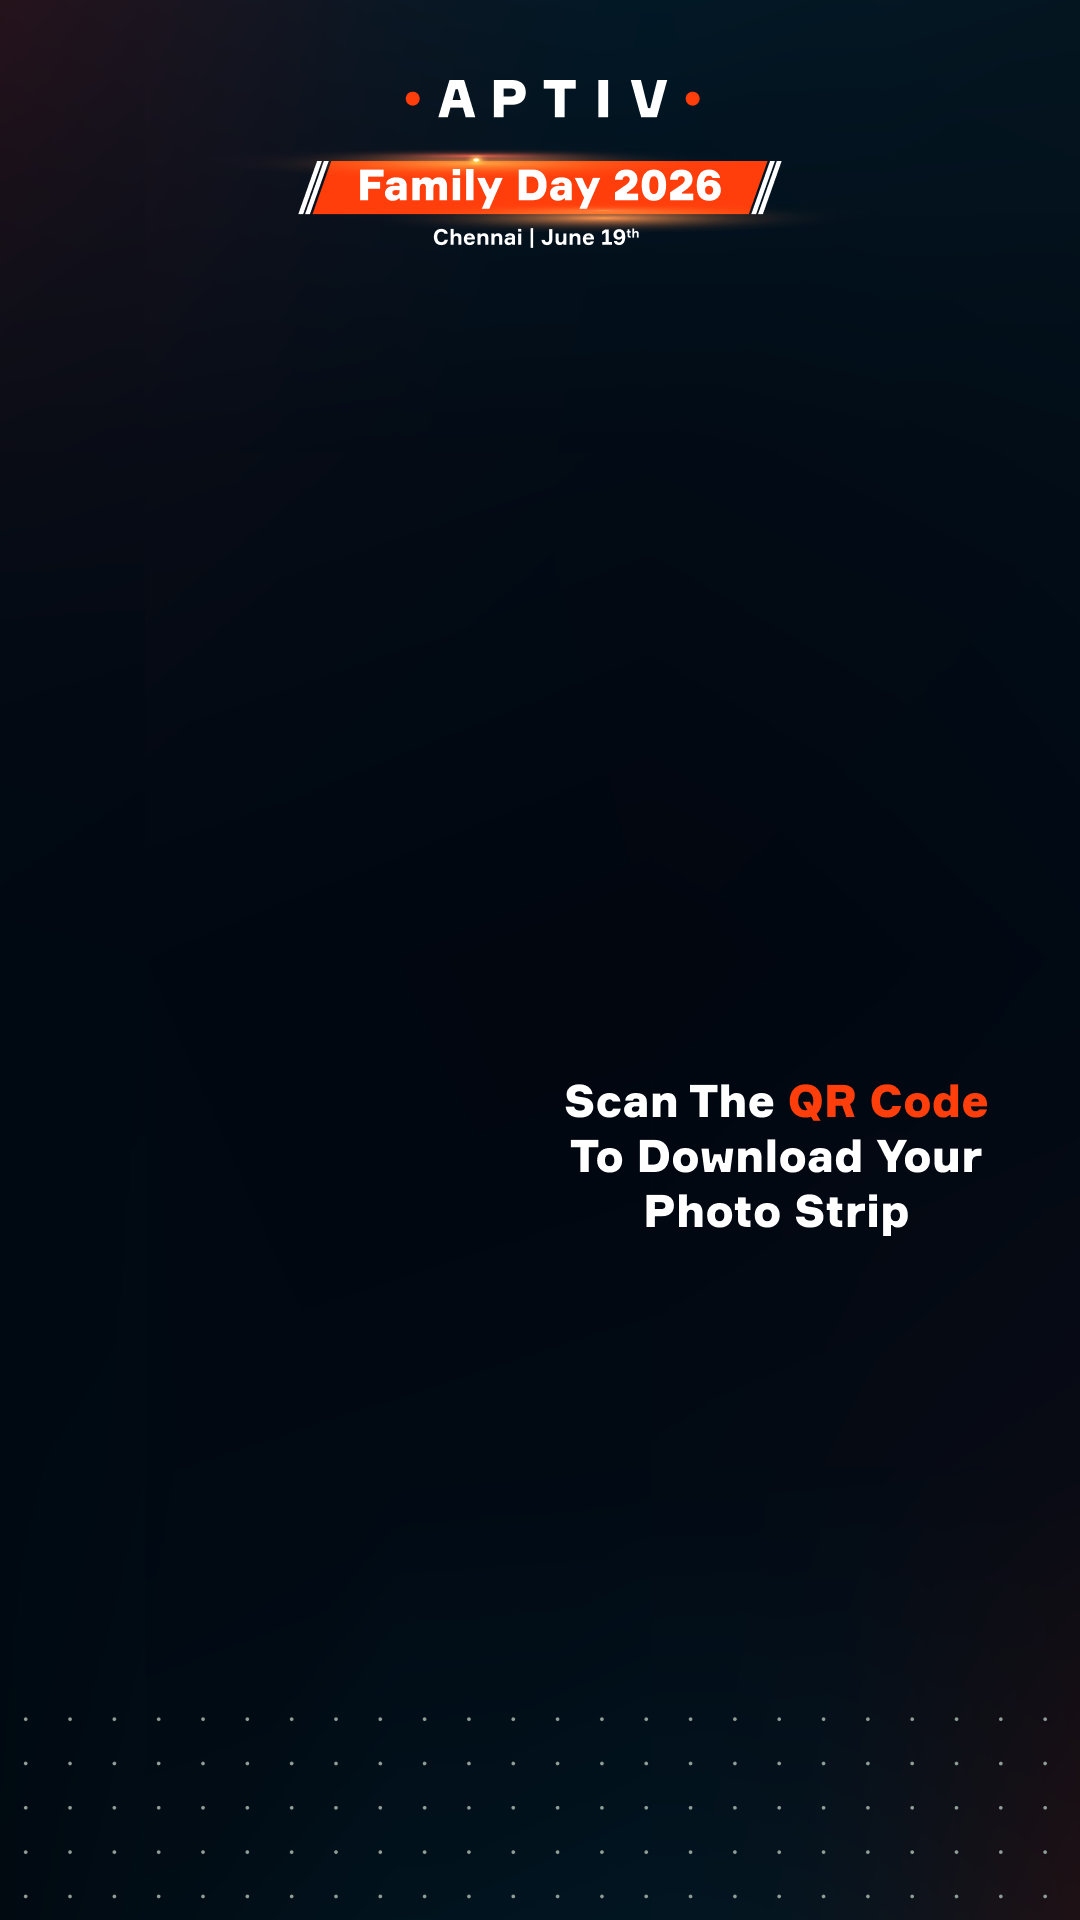
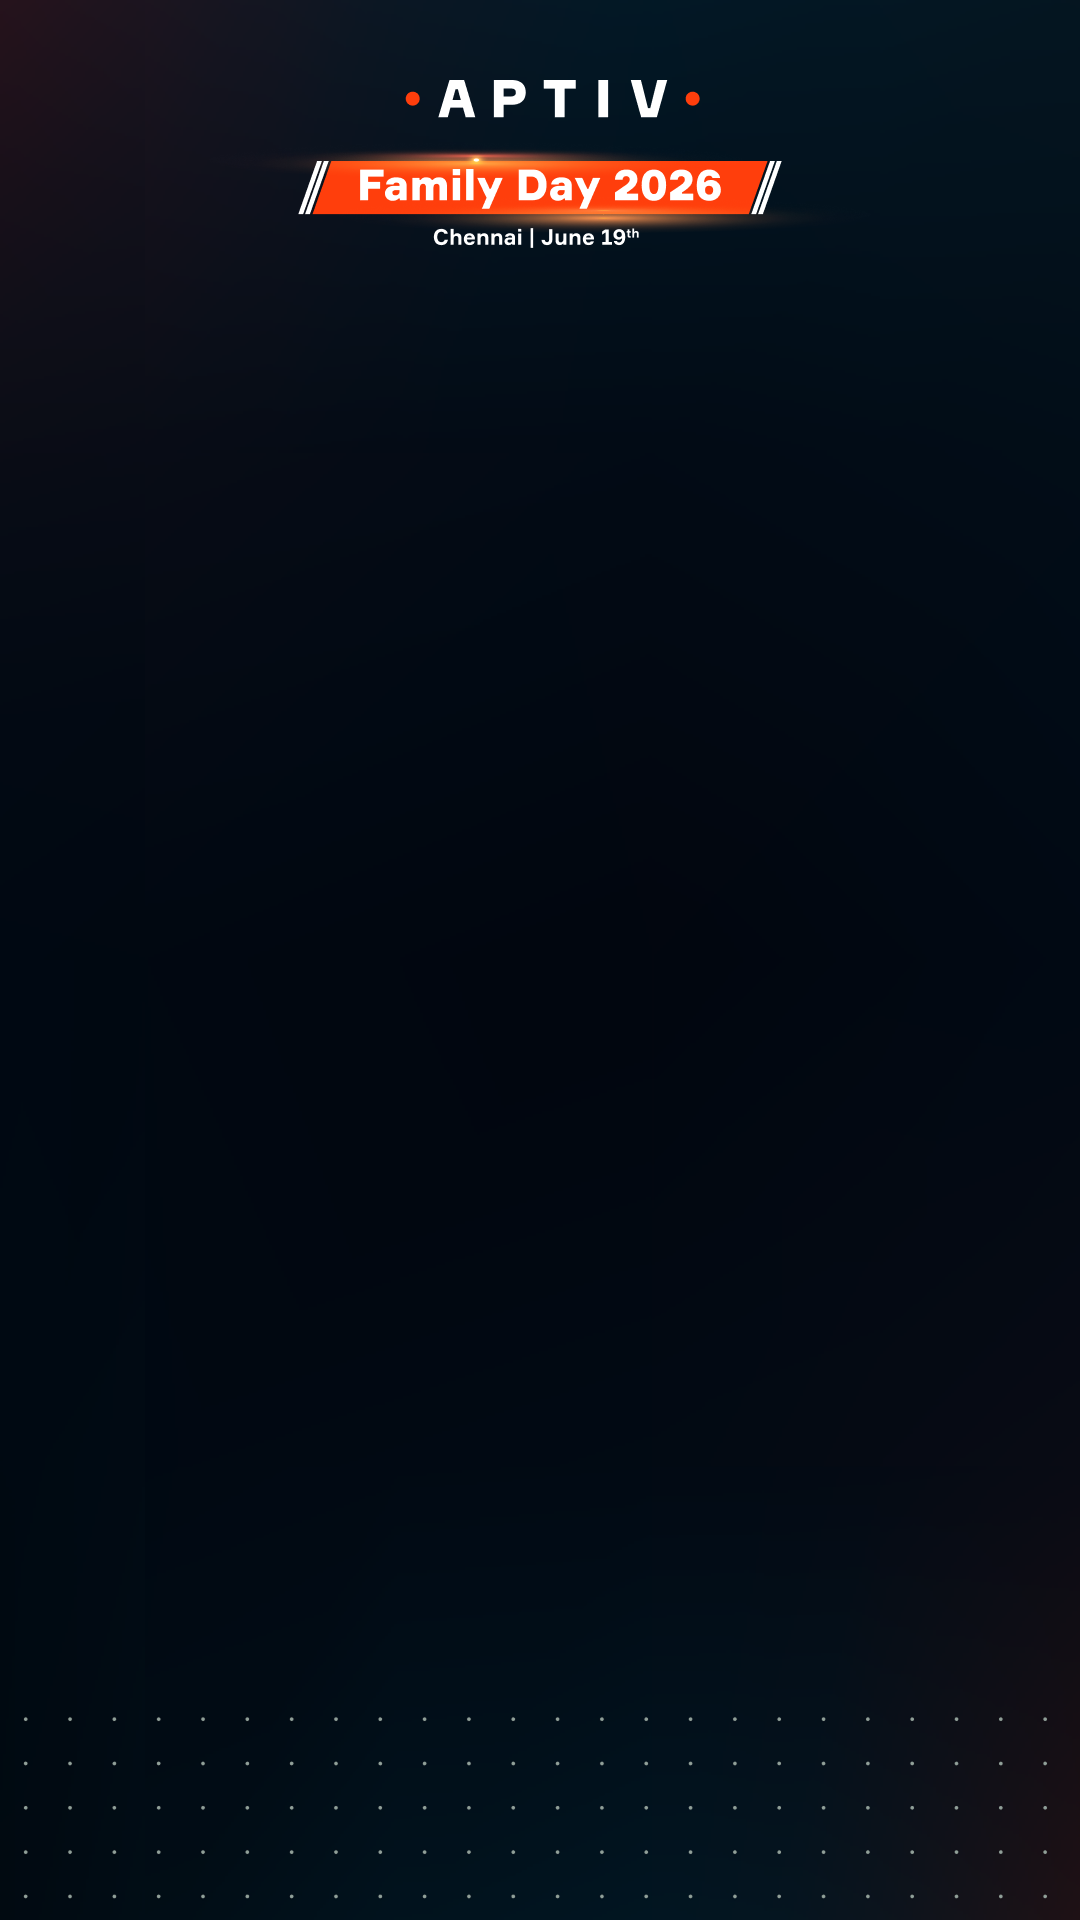
firstttt

Changed region(s): [[0.5194, 0.5625, 0.9167, 0.6562]]

diff --git a/src/App.jsx b/src/App.jsx
@@ -1,8 +1,6 @@
 import React, { useEffect, useMemo, useRef, useState } from "react";
-import QRCode from "qrcode";
 import * as bodySegmentation from "@tensorflow-models/body-segmentation";
 import "@tensorflow/tfjs-backend-webgl";
-import { uploadStripToSupabase } from "./supabaseClient";
 
 const STAGE_WIDTH = 1080;
 const STAGE_HEIGHT = 1920;
@@ -347,7 +345,6 @@ export default function App() {
   const [activeEmoji, setActiveEmoji] = useState(AVAILABLE_EMOJIS[0]);
   const [emojiPlacements, setEmojiPlacements] = useState([]);
   const [sheetUrl, setSheetUrl] = useState("");
-  const [qrUrl, setQrUrl] = useState("");
 
   const captureLabel = useMemo(() => {
     if (isProcessingCaptures) return "Preparing...";
@@ -654,7 +651,6 @@ export default function App() {
     setPoses([]);
     setEmojiPlacements([]);
     setSheetUrl("");
-    setQrUrl("");
     setRegistration({ name: "", email: "", mobile: "" });
     setStep(nextStep);
     updateStatus(nextStep === "register" ? "Enter your details" : `Capture ${STRIP_COUNT} photos`, "ready");
@@ -752,7 +748,7 @@ export default function App() {
       setEmojiPlacements(nextPlacements);
       const sheetDataUrl = await drawSheet(processedPoses, nextPlacements);
       setStep("edit");
-      generateDownloadQr(sheetDataUrl);
+      saveOutputImage(sheetDataUrl);
     } finally {
       setCountdown(null);
       setIsCapturingSequence(false);
@@ -810,26 +806,26 @@ export default function App() {
     await drawSheet(poses, nextPlacements);
   }
 
-  async function generateDownloadQr(imageData) {
-    setQrUrl("");
-
+  async function saveOutputImage(imageData) {
     try {
-      updateStatus("Uploading photo strip");
-      const blob = await (await fetch(imageData)).blob();
-      const filename = `photo-strip-${new Date().toISOString().replace(/[:.]/g, "-")}.png`;
-      const publicUrl = await uploadStripToSupabase(blob, filename);
-
-      const qrDataUrl = await QRCode.toDataURL(publicUrl, {
-        margin: 1,
-        width: 600,
-        errorCorrectionLevel: "M",
-        color: { dark: "#000000", light: "#ffffff" },
+      updateStatus("Saving photo strip");
+      // imageData is a lossless PNG data URL straight from the canvas, so the
+      // saved file is bit-for-bit identical to what was composited — no quality loss.
+      const response = await fetch("/api/save-output-image", {
+        method: "POST",
+        headers: { "Content-Type": "application/json" },
+        body: JSON.stringify({ imageData }),
       });
-      setQrUrl(qrDataUrl);
-      updateStatus("Scan the QR code to download", "ready");
+
+      if (!response.ok) {
+        throw new Error(`Save failed with status ${response.status}`);
+      }
+
+      const { filename } = await response.json();
+      updateStatus(`Saved to output_images/${filename}`, "ready");
     } catch (error) {
-      console.warn("Could not upload strip / generate QR code.", error);
-      updateStatus("Could not prepare download link", "error");
+      console.warn("Could not save the photo strip.", error);
+      updateStatus("Could not save the photo strip", "error");
     }
   }
 
@@ -921,12 +917,12 @@ export default function App() {
               {sheetUrl ? <img src={sheetUrl} alt="Editable output preview" /> : "Preparing preview"}
             </div>
 
-            <div className="qr-backdrop">
-              <div className="qr-code">{qrUrl ? <img src={qrUrl} alt="Scan to download your photo strip" /> : null}</div>
-            </div>
-
             <button className="print-btn" type="button" onClick={printSheet}>
               Print
+            </button>
+
+            <button className="home-btn" type="button" onClick={() => resetProject("register")}>
+              Home
             </button>
           </div>
         </main>

diff --git a/src/App.css b/src/App.css
@@ -896,33 +896,6 @@ select {
   object-fit: fill;
 }
 
-.qr-backdrop {
-  position: absolute;
-  top: 699.51px;
-  left: 604.27px;
-  width: 344.15px;
-  height: 344.15px;
-  background: url("/qrb.png") center / contain no-repeat;
-}
-
-.qr-code {
-  position: absolute;
-  top: 20.62px;
-  left: 20.62px;
-  width: 302.91px;
-  height: 302.91px;
-  border-radius: 13.2px;
-  overflow: hidden;
-  background: #ffffff;
-}
-
-.qr-code img {
-  display: block;
-  width: 100%;
-  height: 100%;
-  object-fit: contain;
-}
-
 .print-btn {
   position: absolute;
   top: 1442.42px;
@@ -943,6 +916,29 @@ select {
 }
 
 .print-btn:hover {
+  background: #ff520c;
+}
+
+.home-btn {
+  position: absolute;
+  top: 1539.34px;
+  left: 562.98px;
+  width: 426.73px;
+  height: 72.92px;
+  min-height: 0;
+  padding: 0;
+  border: 0;
+  border-radius: 116.9px;
+  background: #ff3e0c;
+  color: #ffffff;
+  font-family: "Formular", "Sons", sans-serif;
+  font-size: 32px;
+  font-weight: 700;
+  letter-spacing: 2px;
+  cursor: pointer;
+}
+
+.home-btn:hover {
   background: #ff520c;
 }
 
